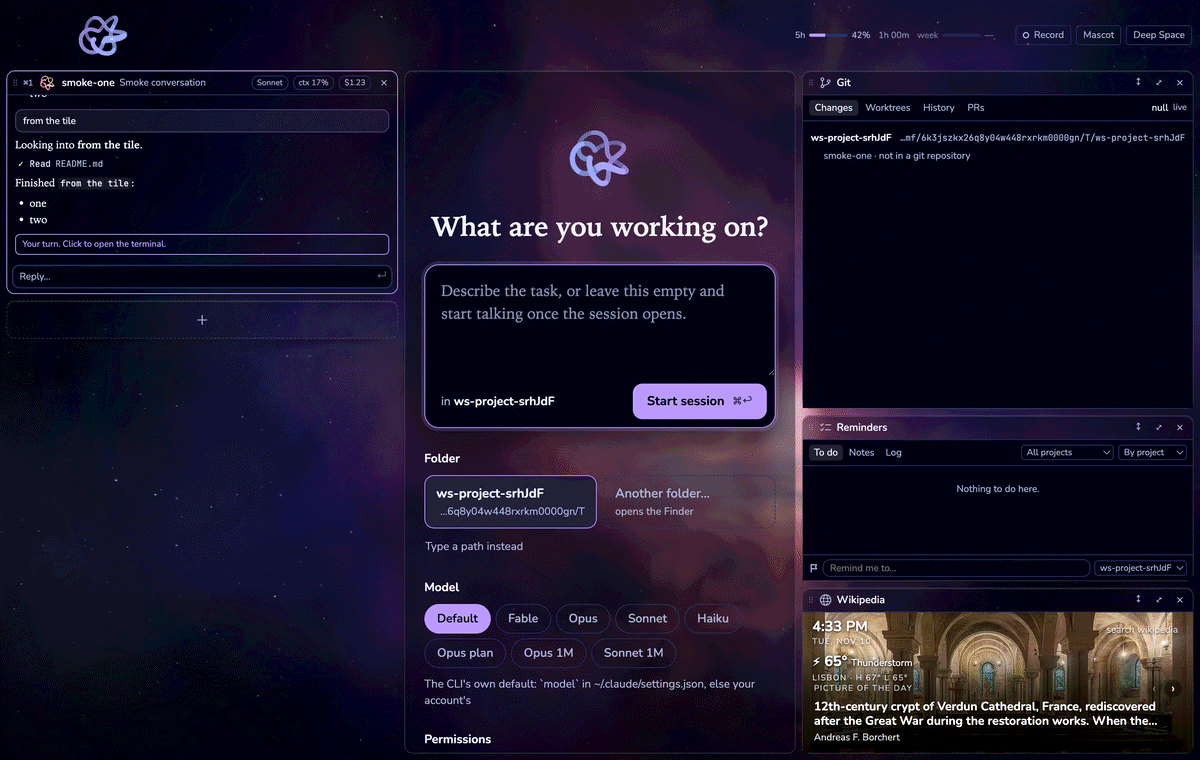
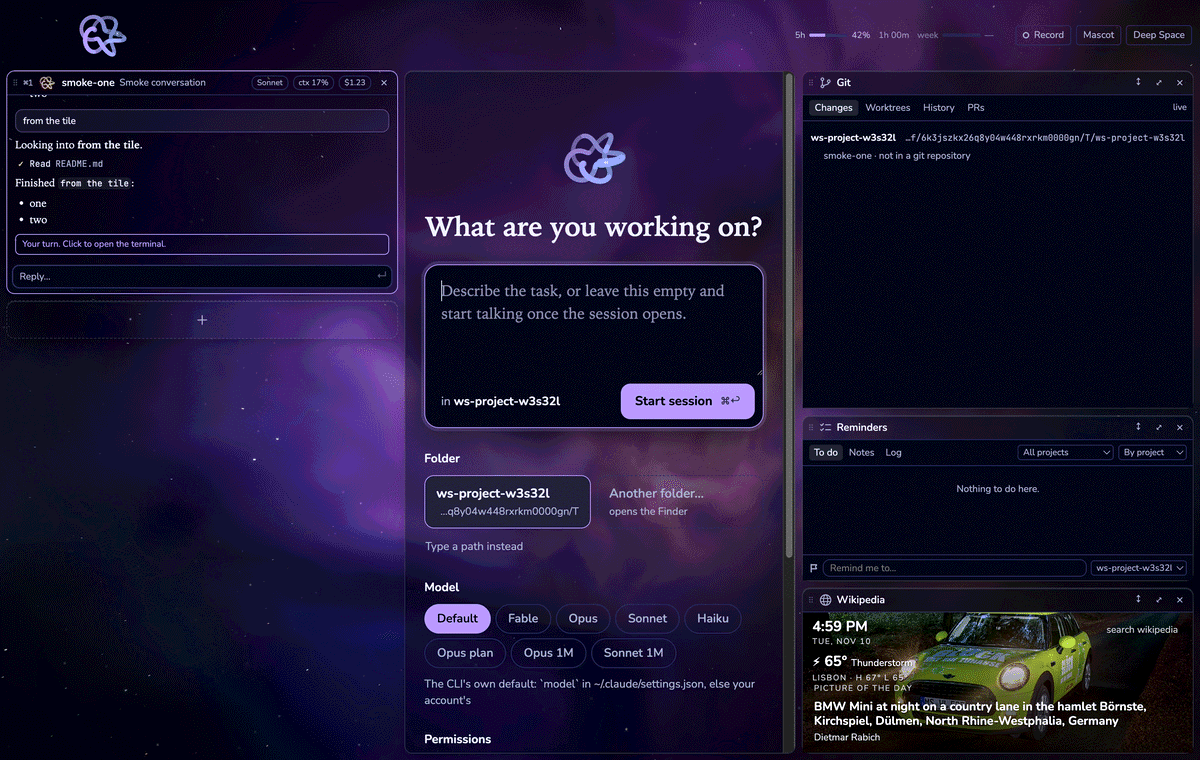
README and page: the screenshot shows the neon green Mini (Dietmar Rabich, CC BY-SA 4.0), credited

diff --git a/site/index.html b/site/index.html
@@ -31,7 +31,7 @@
         <p>Every session is the real <code>claude</code> command, unchanged, in its own terminal. Workshop puts them in a column, shows each conversation as it happens, and keeps them running after you quit. The session you are on fills the middle. On the right is a column of tiles.</p>
         <figure>
           <img src="../docs/assets/app.png" width="1200" height="760" alt="The workshop window in Deep Space: a session's conversation on the left, the new-session form in the middle, and the Git, Reminders and Wikipedia tiles on the right." />
-          <figcaption>From the test run, in Deep Space. Wikipedia's picture of the day: Andreas F. Borchert, Wikimedia Commons.</figcaption>
+          <figcaption>From the test run, in Deep Space. Wikipedia's picture of the day: <a href="https://commons.wikimedia.org/wiki/File:D%C3%BClmen,_Kirchspiel,_BMW_Mini_--_2016_--_5065-71.jpg">BMW Mini at night in Dülmen</a> by Dietmar Rabich, <a href="https://creativecommons.org/licenses/by-sa/4.0">CC BY-SA 4.0</a>; the screenshot is CC BY-SA 4.0 too.</figcaption>
         </figure>
         <ul class="columns">
           <li><strong>Sessions</strong> on the left, most recent first: what each said, its context and cost, and the Knot showing whether it is working or waiting for you.</li>

diff --git a/docs/progress/2026-11-10-readme.md b/docs/progress/2026-11-10-readme.md
@@ -91,10 +91,11 @@ scroll inside themselves.
   `themes.ts`, `docs/assets/`, the fonts or its own config). The workflow installs with
   `npm ci --ignore-scripts` and `ELECTRON_SKIP_BINARY_DOWNLOAD=1`, since the page needs only Vite.
 - When the page is live, change the README's "Project page: … (coming soon)" line into a link.
-- **The screenshot's photo.** `app.png` shows Wikipedia's picture of the day (Verdun Cathedral's
-  crypt, by Andreas F. Borchert, Wikimedia Commons). The README and the page credit him. Commons
-  photos are CC BY-SA or similar, which allows redistribution with credit; if ground rule 6 should
-  be read more strictly for screenshots, retake it on a day with a CC0 picture or crop that tile.
+- **The screenshot's photo** (changed 10 Nov 2026 at Colin's request): `app.png` shows the picture of the
+  day for 17 Dec 2018, Dietmar Rabich's BMW Mini at night in Dülmen, CC BY-SA 4.0, credited with
+  its licence in the README and on the page; the screenshot is CC BY-SA 4.0 too. It was taken by
+  pointing the tile's featured-feed request at that day in a throwaway smoke run (a local patch,
+  not committed).
 - The Git tile's head shows "null" beside "live" in both screenshots (`tiles/git`, not touched
   here): looks like a label that never got its value.
 - `package.json` has no `engines`; the README says Node 22 or later (Vite 7 needs 20.19+ or

diff --git a/README.md b/README.md
@@ -31,7 +31,7 @@ tile is fun, and that fun is the point.
 <p align="center">
   <img src="docs/assets/app.png" width="100%" alt="The workshop window in Deep Space: a session's conversation on the left, the new-session form in the middle, and the Git, Reminders and Wikipedia tiles on the right">
 </p>
-<p align="center"><sub>From the app's own test run, in Deep Space. Wikipedia's picture of the day is by Andreas F. Borchert, from Wikimedia Commons.</sub></p>
+<p align="center"><sub>From the app's own test run, in Deep Space. Wikipedia's picture of the day: <a href="https://commons.wikimedia.org/wiki/File:D%C3%BClmen,_Kirchspiel,_BMW_Mini_--_2016_--_5065-71.jpg">BMW Mini at night in Dülmen</a> by Dietmar Rabich, <a href="https://creativecommons.org/licenses/by-sa/4.0">CC BY-SA 4.0</a>, so this screenshot is CC BY-SA 4.0 too.</sub></p>
 
 ## What is in it today
 
